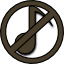
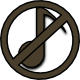
Buttons en 80x80.

diff --git a/puyopuyo-android/src/com/tacoid/pweek/screens/MainMenuScreen.java b/puyopuyo-android/src/com/tacoid/pweek/screens/MainMenuScreen.java
@@ -100,10 +100,10 @@ public class MainMenuScreen implements Screen, InputProcessor {
 		menu.initEnd();
 		
 		stage.addActor(menu);
-		addButton(MusicButtonActor.createMusicButton(Pweek.getInstance().atlasBouttons),VIRTUAL_WIDTH-64, VIRTUAL_HEIGHT-64);
-		addButton(SoundButtonActor.createSoundButton(Pweek.getInstance().atlasBouttons),VIRTUAL_WIDTH-2*64-10, VIRTUAL_HEIGHT-64);
-		addButton(LeaderboardButtonActor.createLeaderboardButton(Pweek.getInstance().atlasBouttons),0, VIRTUAL_HEIGHT-64);
-		addButton(AchievementButtonActor.createAchievementButton(Pweek.getInstance().atlasBouttons),64 + 10, VIRTUAL_HEIGHT-64);
+		addButton(MusicButtonActor.createMusicButton(Pweek.getInstance().atlasBouttons),VIRTUAL_WIDTH-90, VIRTUAL_HEIGHT-90);
+		addButton(SoundButtonActor.createSoundButton(Pweek.getInstance().atlasBouttons),VIRTUAL_WIDTH-180, VIRTUAL_HEIGHT-90);
+		addButton(LeaderboardButtonActor.createLeaderboardButton(Pweek.getInstance().atlasBouttons), 10, VIRTUAL_HEIGHT-90);
+		addButton(AchievementButtonActor.createAchievementButton(Pweek.getInstance().atlasBouttons), 100, VIRTUAL_HEIGHT-90);
 
 		menu.hideInstant();
 		menu.show("main");
